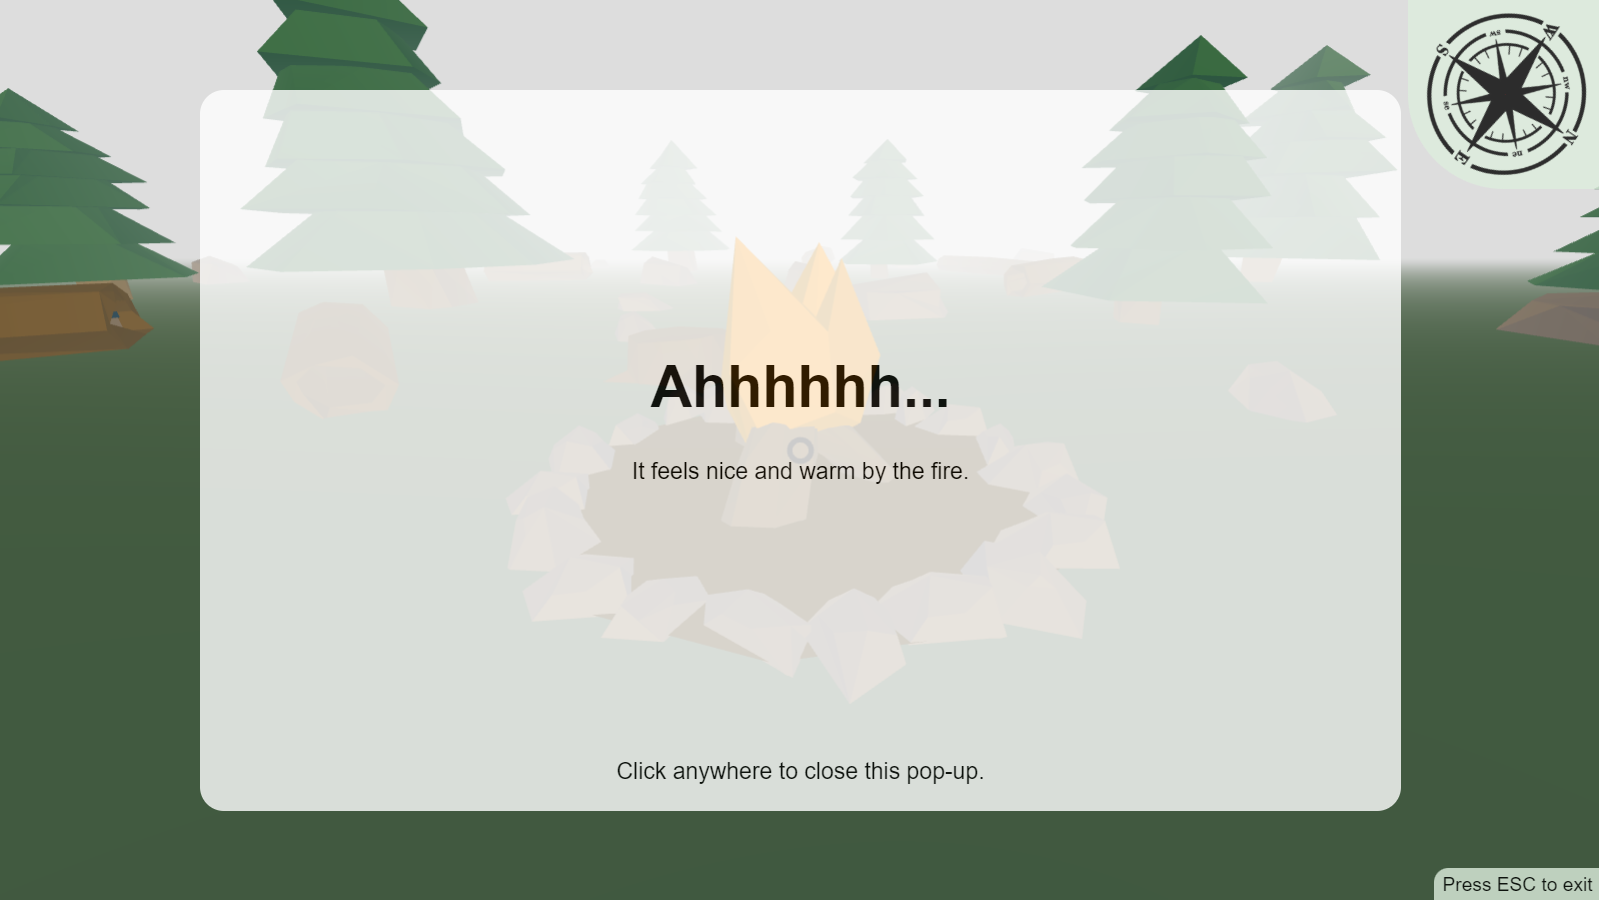
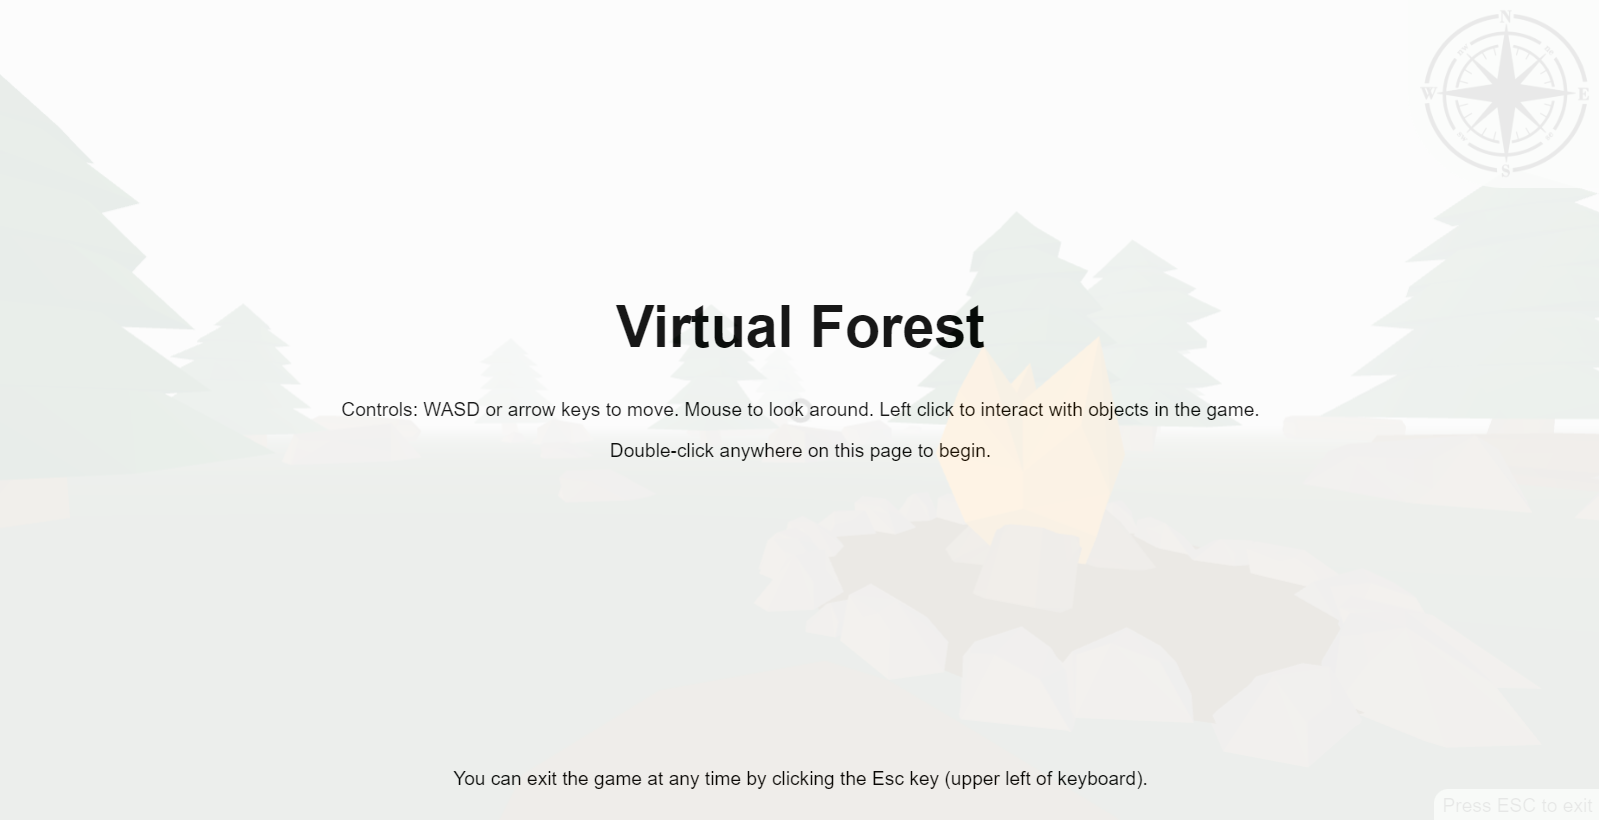
update README

diff --git a/README.md b/README.md
@@ -1,7 +1,14 @@
 # VMC - Virtual Multi Cache
-A Virtual Multi Cache is a type of [geocache](https://geocaching.com) that is like a puzzle, but solving it includes an immersive experience in which the user explores a virtual world, similar to the experience of completing a multi-cache in the real world.
 
-Despite being created using a VR framework, these VMCs are not intended to be viewed in VR mode; only from a laptop or PC.
-Controls configuration is Minecraft style.
+![game title page](https://github.com/JGreenlee/vmc/blob/master/images/intro.png?raw=true)
 
-Inside the folders in this repository you will find examples of VMCs I have created. If you are in the Cincinnati, Ohio area, you might come across the cache listings on [geocaching.com](https://geocaching.com).
+A Virtual Multi Cache is a type of [geocache](https://geocaching.com) that mimics a multi-stage puzzle. Its solution includes an immersive experience in which the user explores a virtual world, similar to the experience of completing a multi-cache in the real world.
+
+![gameplay of the VMC](https://github.com/JGreenlee/vmc/blob/master/images/screenplay.png?raw=true)
+*Gameplay of the VMC, "Virtual Forest"*
+
+This minigame was created using A-Frame, a VR framework. However, it can be used outside of VR mode on a laptop or PC.
+The controls configuration is "Minecraft style" (WASD and mouse).
+
+![found stage 1](https://github.com/JGreenlee/vmc/blob/master/images/found-stage.png?raw=true)
+*A piece of the solution which leads to the real-world coordinates*
